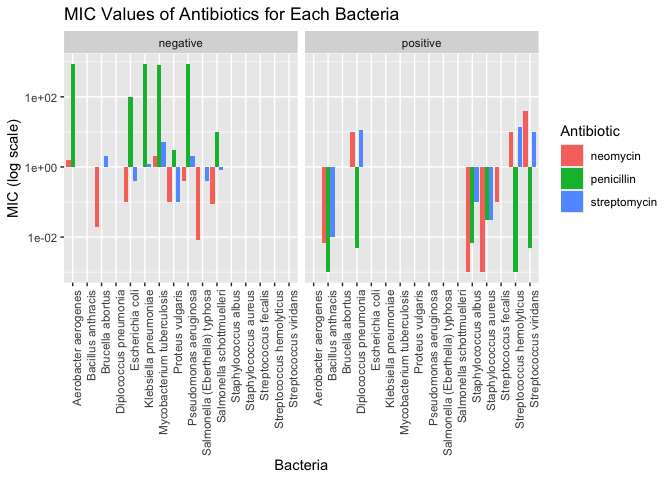
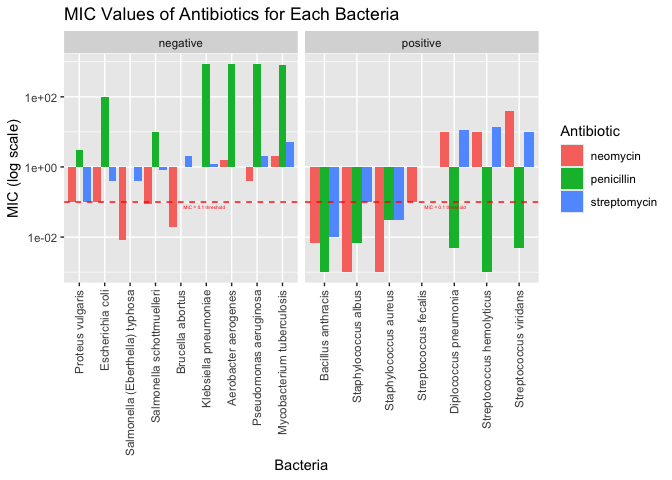
made revisions to c05

Changed region(s): [[0.0938, 0.125, 0.8125, 0.9375]]

diff --git a/challenges/c05-antibiotics-assignment.md b/challenges/c05-antibiotics-assignment.md
@@ -91,19 +91,7 @@ antibiotics.
 filename <- "./data/antibiotics.csv"
 
 ## Load the data
-df_antibiotics <- read_csv(filename)
-```
-
-    ## Rows: 16 Columns: 5
-    ## ── Column specification ────────────────────────────────────────────────────────
-    ## Delimiter: ","
-    ## chr (2): bacteria, gram
-    ## dbl (3): penicillin, streptomycin, neomycin
-    ## 
-    ## ℹ Use `spec()` to retrieve the full column specification for this data.
-    ## ℹ Specify the column types or set `show_col_types = FALSE` to quiet this message.
-
-``` r
+df_antibiotics <- read_csv(filename, show_col_types = FALSE)
 df_antibiotics %>% knitr::kable()
 ```
 
@@ -165,14 +153,15 @@ is Gram positive or negative.
 
 ``` r
 df_long %>%
+  mutate(bacteria = fct_reorder(bacteria, MIC)) %>%
   ggplot(aes(antibiotic, bacteria, fill = MIC)) +
   geom_tile() +
-  scale_fill_viridis_c(trans = "log10") +
+  scale_fill_gradient2(midpoint = 0.1, trans = "log10") +
   theme_minimal() +
   theme(axis.text.x = element_text(angle = 90, vjust = 0.5, hjust = 1)) +
   labs(
     title = "MIC values of Antibiotics for Bacteria",
-    x = "Antibiotic", 
+    x = "Antibiotic",
     y = "Bacteria"
   ) +
   facet_wrap(~gram, scales = "free_y")
@@ -192,17 +181,20 @@ your other visuals.
 
 ``` r
 df_long %>%
+  mutate(bacteria = fct_reorder(bacteria, MIC)) %>%
   ggplot(aes(bacteria, MIC, fill = antibiotic)) +
   geom_bar(stat = "identity", position = "dodge") +
   scale_y_log10() +
-  theme(axis.text.x = element_text(angle = 90, hjust = 1)) +
+  geom_hline(yintercept = 0.1, linetype = "dashed", color = "red", linewidth = 0.5) + 
+  annotate("text", x = Inf, y = 0.1, label = "MIC = 0.1 threshold", vjust = 2, hjust = 2.75, color = "red", size = 1.25) +
+  theme(axis.text.x = element_text(angle = 90, hjust = 1, vjust = 0.5)) +
   labs(
     title = "MIC Values of Antibiotics for Each Bacteria",
     x = "Bacteria", 
     y = "MIC (log scale)", 
     fill = "Antibiotic"
   ) +
-  facet_wrap(~gram)
+  facet_wrap(~gram, scales = "free_x")
 ```
 
 ![](c05-antibiotics-assignment_files/figure-gfm/q1.2-1.png)<!-- -->
@@ -221,6 +213,8 @@ df_long %>%
   ggplot(aes(antibiotic, MIC, fill = gram)) +
   geom_boxplot() +
   scale_y_log10() +
+  geom_hline(yintercept = 0.1, linetype = "dashed", color = "red", linewidth = 0.5) + 
+  annotate("text", x = Inf, y = 0.1, label = "MIC = 0.1 threshold", vjust = -1, hjust = 4, color = "red", size = 2) +
   labs(
     title = "Distribution of MIC Values by Antibiotic",
     x = "Antibiotic", 
@@ -296,7 +290,7 @@ df_long %>%
     x = "Antibiotic", 
     y = "MIC (log scale)", 
     color = "Gram Staining"
-  )
+  ) 
 ```
 
 ![](c05-antibiotics-assignment_files/figure-gfm/q1.5-1.png)<!-- -->
